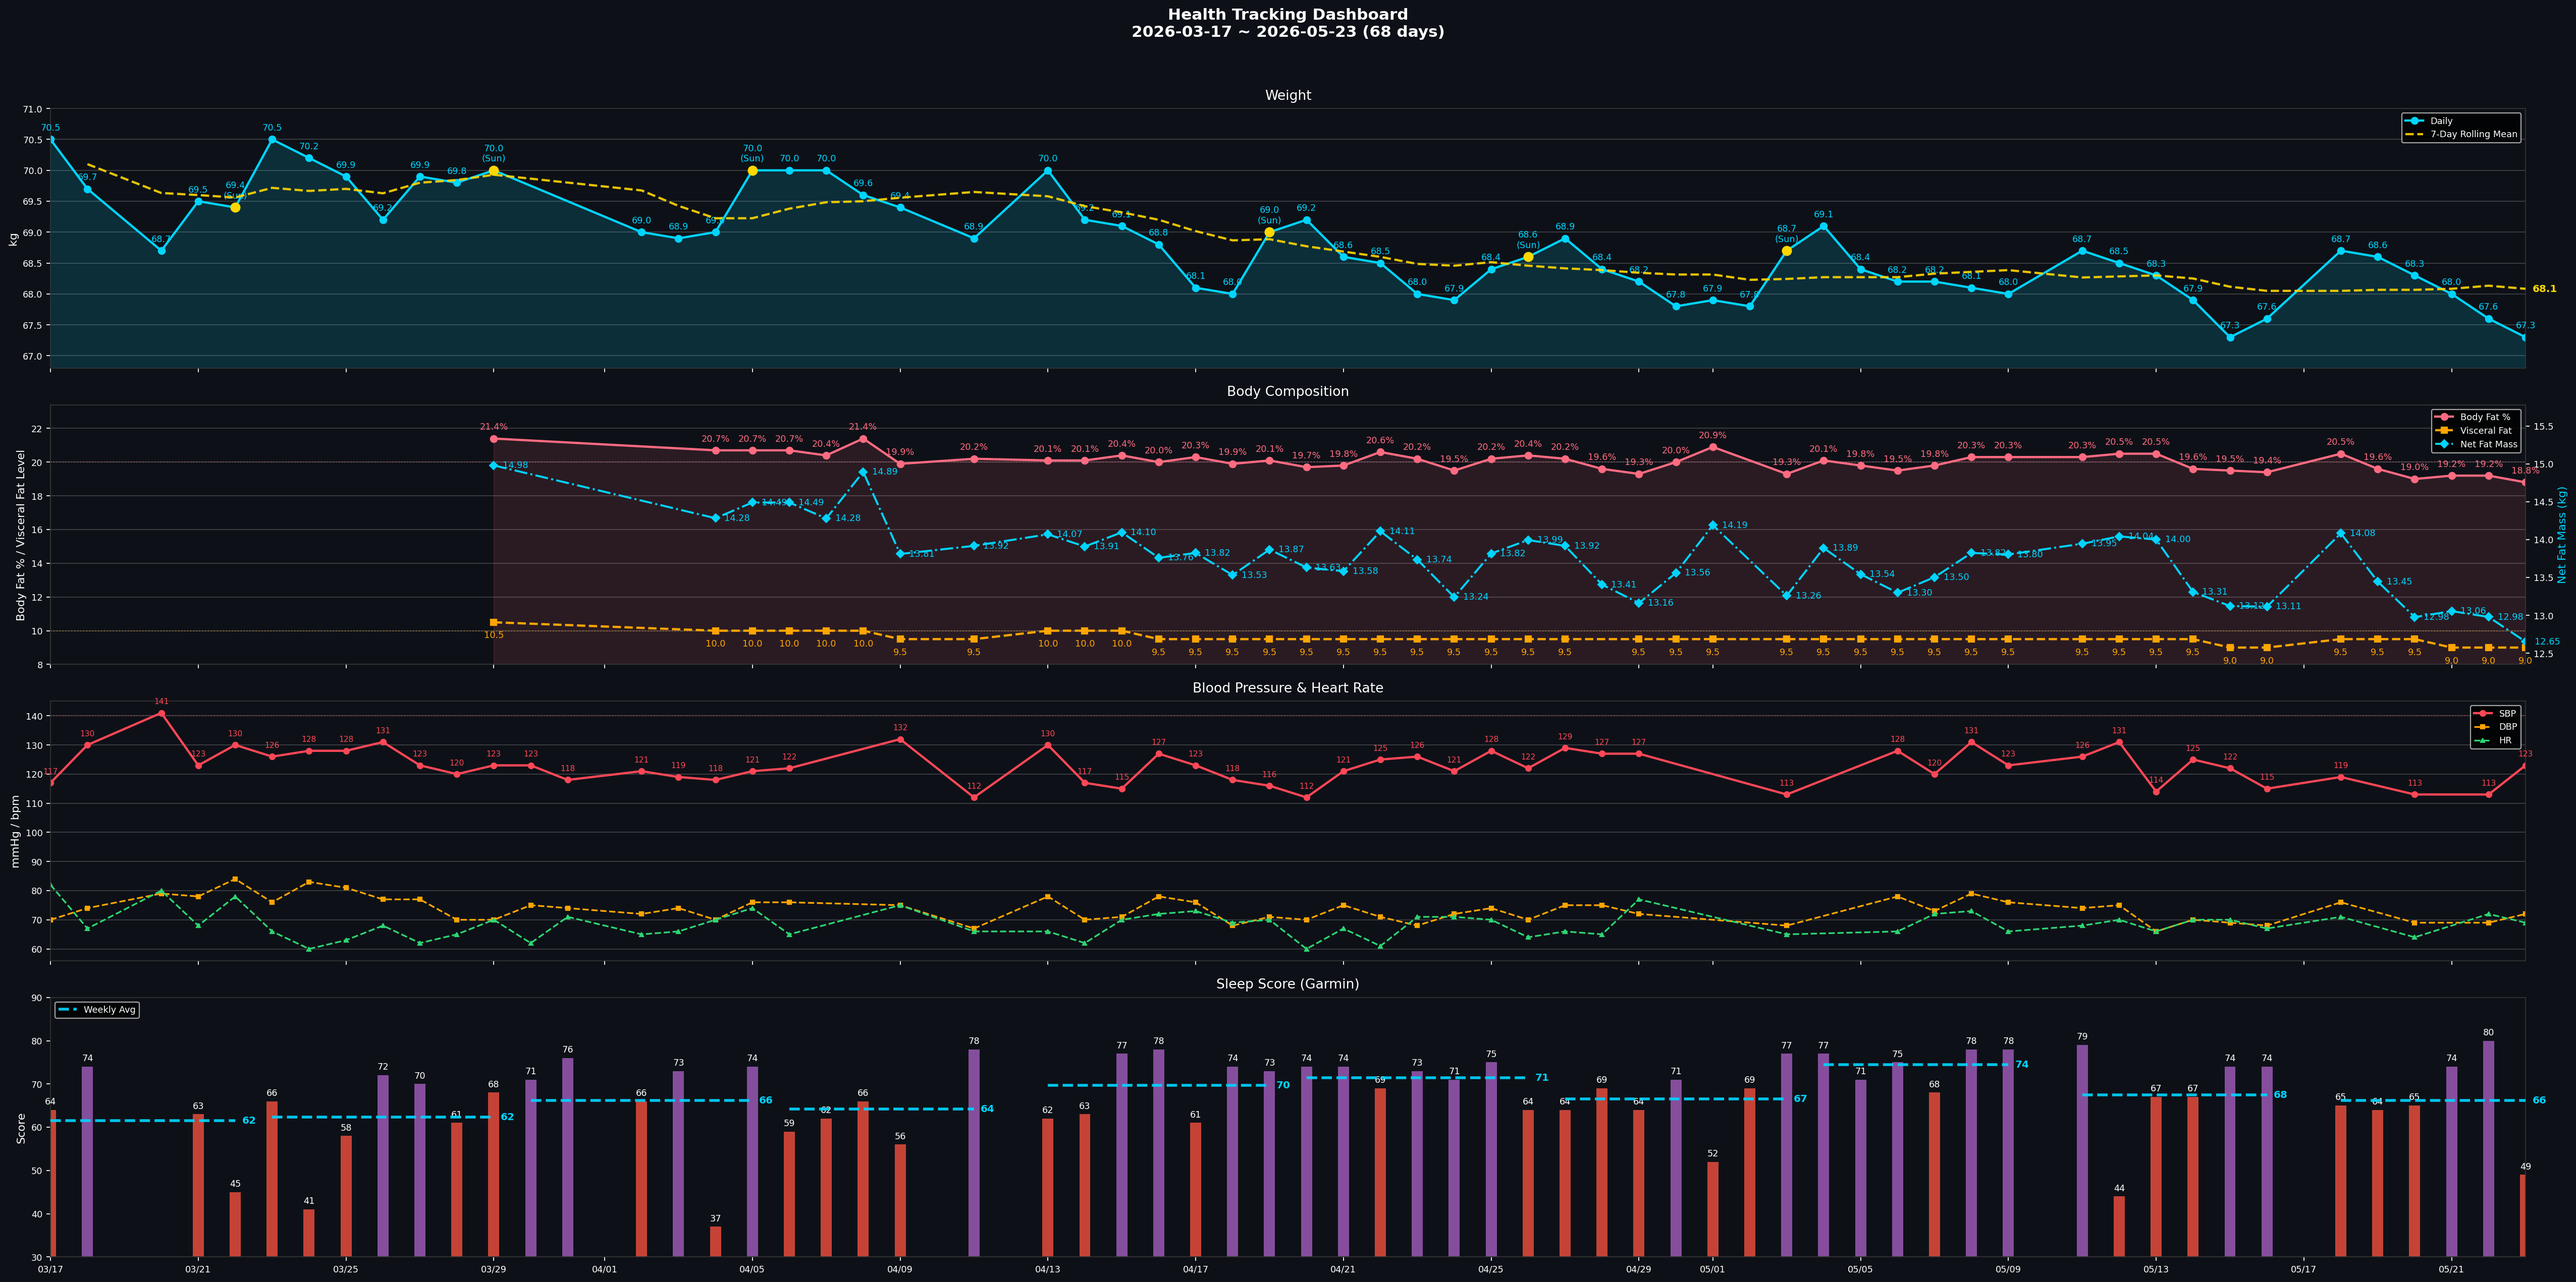
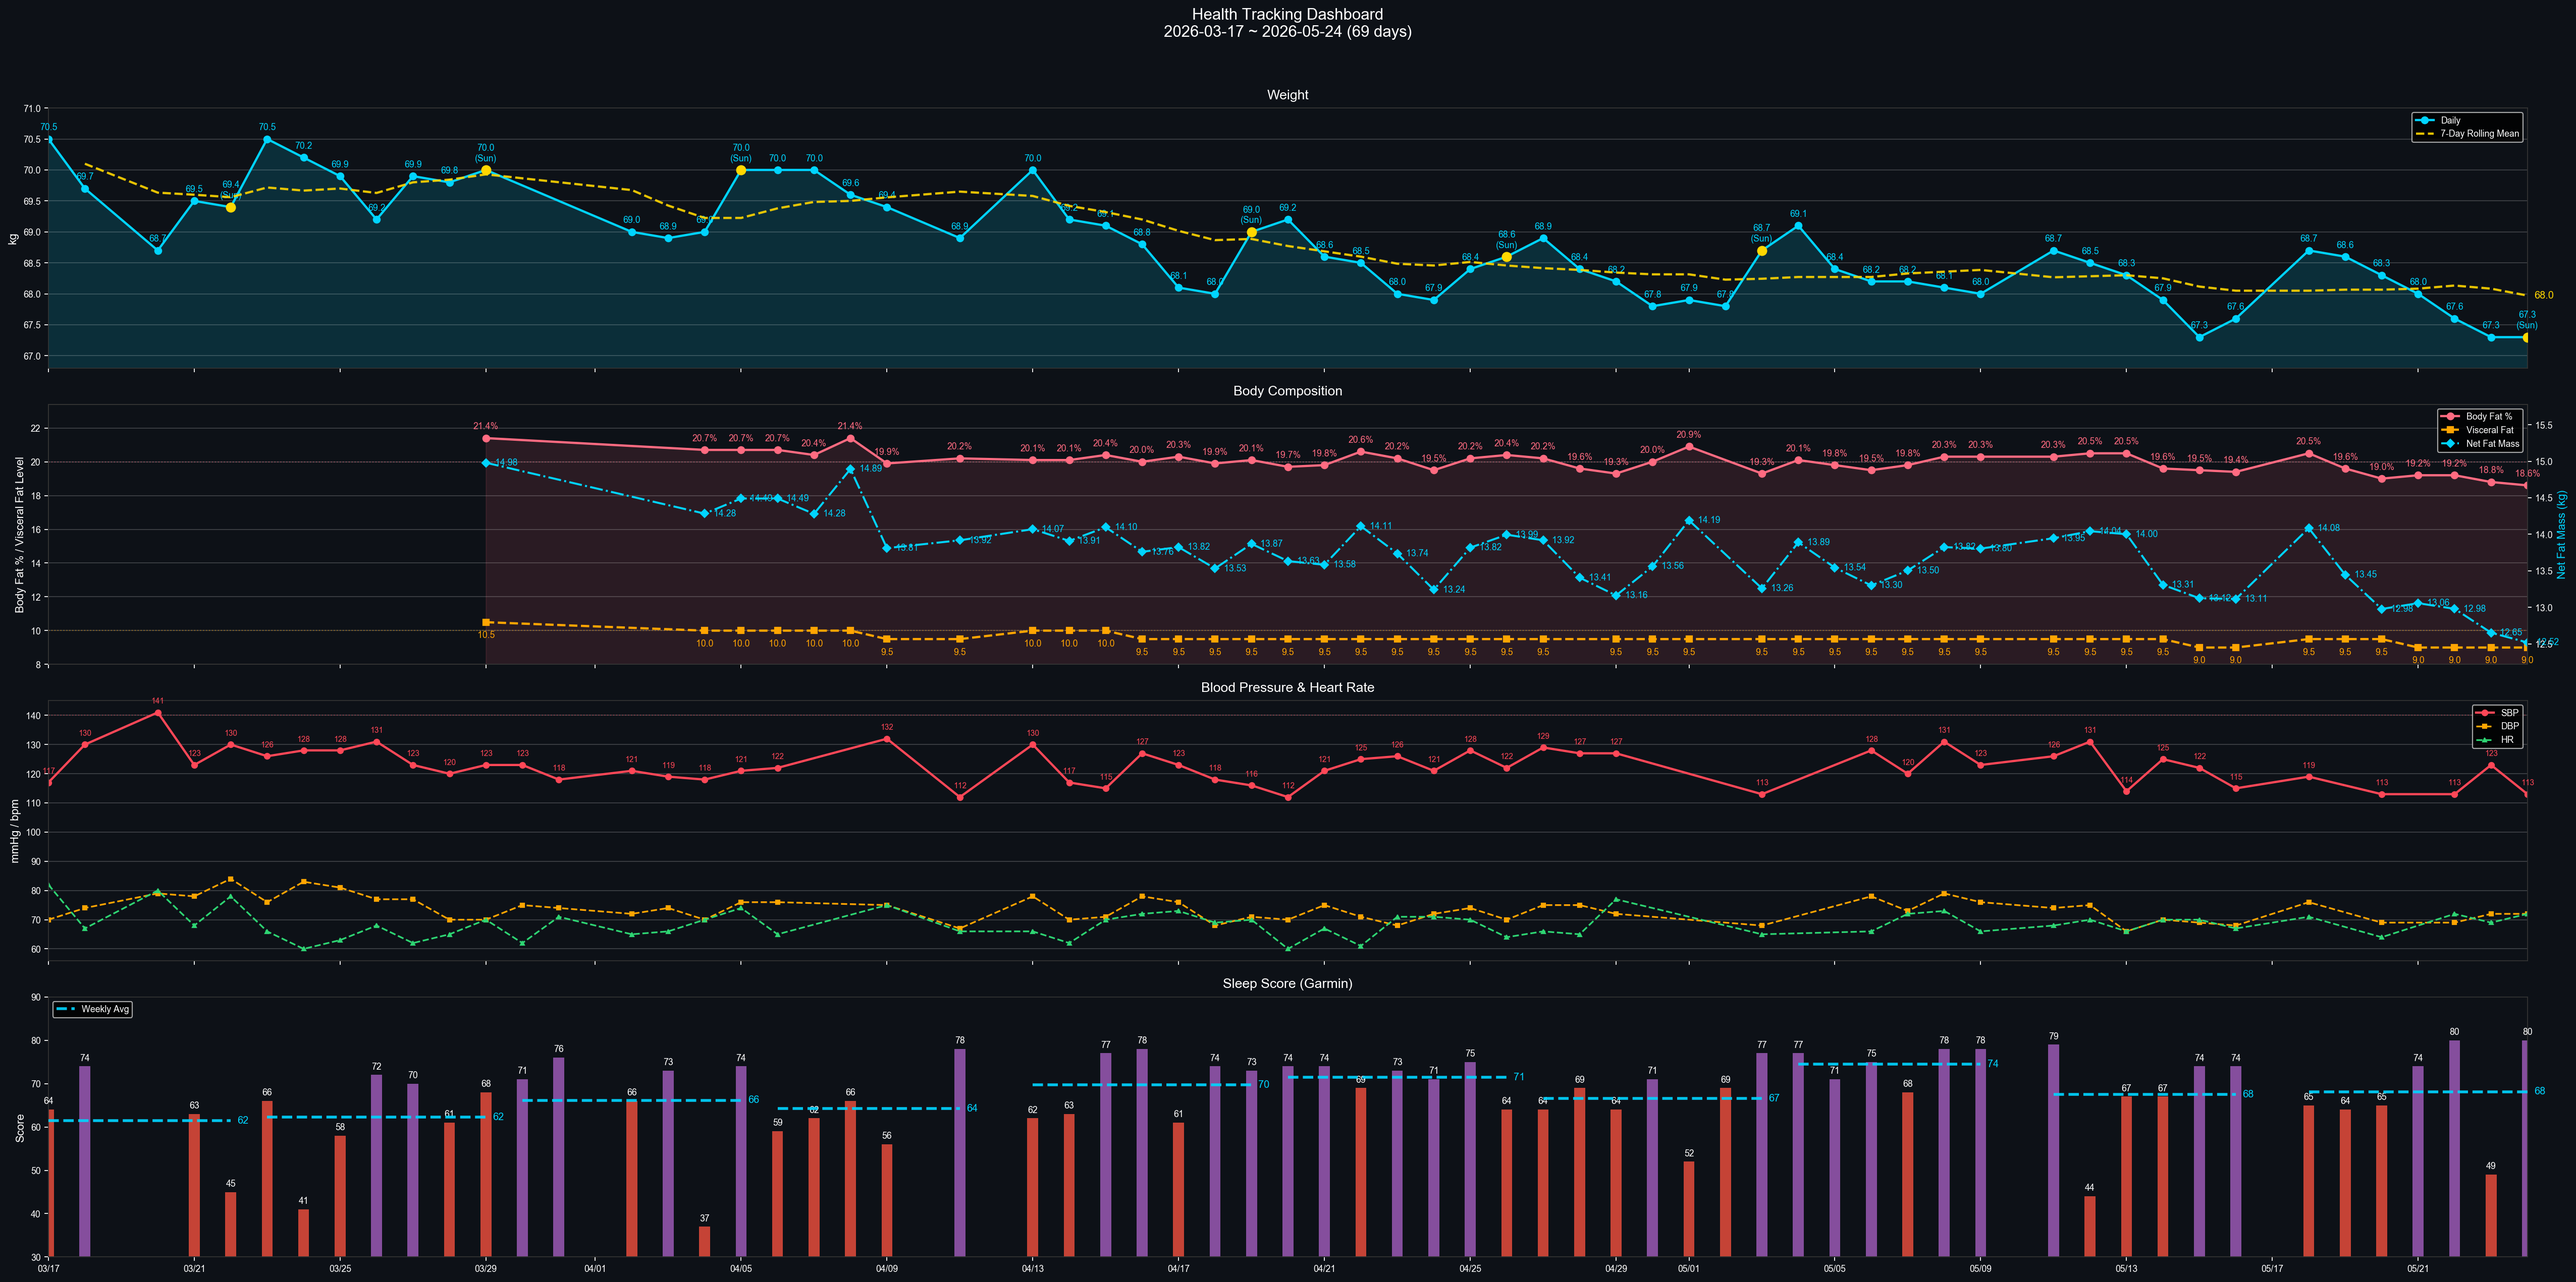
daily health log 2026-05-24

diff --git a/data.js b/data.js
@@ -14,8 +14,8 @@ window.HC_DATA = {
     lede:    { en: "Sleep, BP, lipids, uric acid — one shared metabolic root. Lifestyle stacks first; medication only after lifestyle plateaus.",
                zh: "睡眠、血壓、血脂、尿酸——共享同一個代謝根源。生活方式介入優先，等到效果平台期再考慮藥物。" },
     progressLbl: { en: "Weight progress · 70 → 65 (Cut, 6mo) → 63.1 kg (2015 align, 12mo)", zh: "體重進度 · 70 → 65（減脂期 6 個月）→ 63.1 公斤（對齊 2015，12 個月）" },
-    progressMeta: { en: "Day 68 · 67.3 kg · Sat official (5/23) · ahead of M3", zh: "第 68 天 · 67.3 公斤 · 週六正式（5/23）· 領先 M3 計畫" },
-    startDate: { en: "Start date · Mar 17, 2026 · Last sync 5/23 · 12-mo plan to 2027-03-17", zh: "起始日期 · 2026 年 3 月 17 日 · 最後同步 5/23 · 12 個月計畫至 2027-03-17" },
+    progressMeta: { en: "Day 69 · 67.3 kg · Sat official (5/23)", zh: "第 69 天 · 67.3 公斤 · 週六正式（5/23）" },
+    startDate: { en: "Start date · Mar 17, 2026 · Last sync 5/24", zh: "起始日期 · 2026 年 3 月 17 日 · 最後同步 5/24" },
     startWeight: 70,
     targetWeight: 63.1,
     cutPhaseTarget: 65,
@@ -46,14 +46,14 @@ window.HC_DATA = {
   markers: [
     {
       sys: "heart", name: { en: "Blood Pressure", zh: "血壓" },
-      val: "122/70", unit: "mmHg",
-      delta: { en: "W20 weekly avg (6 days) · target met (<130) · last 123/72 (5/23)", zh: "W20 週均（6 天）· 已達標 (<130) · 最新 123/72 (5/23)" },
+      val: "116/72", unit: "mmHg",
+      delta: { en: "W21 weekly avg (5 days) · target met (<130) · last 113/72 (5/24)", zh: "W21 週均（5 天）· 已達標 (<130) · 最新 113/72 (5/24)" },
       cadence: { en: "Daily · weekly avg", zh: "每日 · 週均" },
       status: "ok",
     },
     {
       sys: "sleep", name: { en: "Sleep Score", zh: "睡眠分數" },
-      val: "49", unit: "Garmin",
+      val: "80", unit: "Garmin",
       delta: { en: "5/4 · OSA flag: T90 18.4% (severe)", zh: "5/4 · OSA 紅旗：T90 18.4%（重度）" },
       cadence: { en: "Daily · Garmin", zh: "每日 · Garmin" },
       status: "warn",
@@ -948,14 +948,14 @@ window.HC_DATA = {
   tracker: {
     // [SBP, DBP] — gaps filled with prior reading
     bp: [
-      [131,79], [123,76], [126,74], [131,75], [114,66], [125,70], [122,69], [115,68], [119,76], [119,76], [113,69], [113,69], [113,69], [123,72],
+      [123,76], [126,74], [131,75], [114,66], [125,70], [122,69], [115,68], [119,76], [119,76], [113,69], [113,69], [113,69], [123,72], [113,72],
     ],
     // daily weight (kg)
-    weight: [68.1, 68, 68.7, 68.5, 68.3, 67.9, 67.3, 67.6, 68.7, 68.6, 68.3, 68, 67.6, 67.3],
+    weight: [68, 68.7, 68.5, 68.3, 67.9, 67.3, 67.6, 68.7, 68.6, 68.3, 68, 67.6, 67.3, 67.3],
     // Garmin Sleep Score
-    sleep:  [78, 78, 79, 44, 67, 67, 74, 74, 65, 64, 65, 74, 80, 49],
+    sleep:  [78, 79, 44, 67, 67, 74, 74, 65, 64, 65, 74, 80, 49, 80],
     // Body Battery waking
-    bb:     [37, 48, 55, 36, 42, 34, 51, 63, 48, 62, 54, 61, 56, 34],
+    bb:     [48, 55, 36, 42, 34, 51, 63, 48, 62, 54, 61, 56, 34, 59],
     // SpO2 nightly nadir % (last 14 days, parallel to bp/weight/sleep/bb).
     // Earlier nights null until sync_data_js.py backfills; banner only uses trailing values.
     spo2Nadir: [null, null, null, null, null, 84, 79, 87, 85, 84, 84, 86, 82, 84],

diff --git a/reviews/daily/2026-05-24.md b/reviews/daily/2026-05-24.md
@@ -1,0 +1,130 @@
+# 晨間健康紀錄 — 2026-05-24
+
+*3 分鐘。起床後立即完成。記錄，不分析。*
+
+---
+
+## 體重 / 體組成
+
+**今日：67.3 kg**
+**體脂率：18.6 %**
+**內臟脂肪等級：9**
+**腰圍 (WHO midpoint)：[ ] cm**（最下肋骨下緣 + 髂嵴頂端兩點水平中點環繞，通常在肚臍上方 2-5 cm；**與健檢歷史可比**；目標維持 ≤ 83、推進至 < 80 cm）
+**腰圍 (最大腹圍)：[ ] cm**（自然站立、吐氣末、不收腹，軟尺上下移動找最大讀數；通常在肚臍 0 至 -4 cm；**對內臟脂肪變化最敏感**）
+
+*每週六早晨為正式體重紀錄（排尿後、進食前；連 5 個工作日後、週末大餐前的真實低點）。其他日可選填。*
+*腰圍每日量（起床排尿後、進食前）。量兩個位置（WHO + max），方向應一致；若差距 > 3 cm 持續，考慮以 max 為主追蹤指標。*
+*WHO midpoint：科學標準，國健署 / 健檢 / metabolic syndrome 診斷用；最大腹圍：內臟脂肪 visceral fat correlation 最強。*
+
+---
+
+## 血壓（晨間）
+
+*起床後 1 小時內，上完廁所、進食前。坐下安靜 5 分鐘，連量兩次取第二次。*
+
+| 次數 | 收縮壓 | 舒張壓 | 心率 |
+|------|--------|--------|------|
+| 第一次 | — | — | — |
+| 第二次 | 113 | 72 | 72 |
+
+---
+
+## 睡眠狀態
+
+**Garmin 偵測入睡：** 20:35
+**實際上床：** 20:30–20:40（不確定）
+**實際起床：** 03:50
+**中途醒來：** 1 次（原因不明）
+**Garmin Sleep Score：** 80 / 100
+**Garmin Body Battery 起床值：** 59
+**主觀恢復感：** 3 / 5（1=極度疲憊, 5=精力充沛）
+**總睡眠時長：** 6h 48m（深眠 55 分｜REM 93 分）
+**入睡 latency：**（自動估算，範圍 LO–HI 分）
+
+### SpO2 Desat Events（2026-05-24 夜）
+
+睡眠平均 95.0%｜瞬間最低 **78%**｜T90 ≈ **10.9%**（SpO2 < 90% 累計 44 分）
+
+| 時段 | 長度 | 最低 | 平均 | 分級 |
+|---|---|---|---|---|
+| 23:40–00:10 | 31 分 | 81% | 86% | 🟠 中度（最長 event） |
+| 00:51–01:00 | 10 分 | **78%** | 82% | 🔴 重度（瞬間最低 < 80%） |
+| 02:19–02:21 | 3 分 | 86% | 87% | 🟡 紅旗 |
+
+**🔴 OSA 紅旗（連續第二晚觸發）：**
+- T90 10.9% > 10% ✅ 重度單晚 hypoxic burden
+- 最長 event 31 分鐘 > 15 分鐘 ✅ 重度累積缺氧
+- 瞬間最低 78% < 80% ✅ 重度單點 desat
+- 5/23：T90 32.1%、最長 32 分鐘、最低 79% — 連 2 晚同條件 → **PSG 進度追蹤升優先級**
+
+### SpO2 夜間最低（7 晚趨勢）
+
+| 日期 | -6 | -5 | -4 | -3 | -2 | -1 | 今晨 |
+|------|----|----|----|----|----|----|------|
+| 日期 | | | | | | | |
+| 最低 % | | | | | | | |
+
+**今晨日均 SpO2：** [ ]%
+**< 88% 連續晚數：** [ ]（OSA 紅旗門檻：連 3 晚 < 88% → 強烈建議 PSG）
+
+**SpO2 全夜圖（含 hypnogram 條帶）：** [ ]
+**SpO2 趨勢圖：** [ ]
+**SpO2 全夜 Heatmap（28+ 晚 Venu 4 cohort）：** [ ]
+**SpO2 × 睡眠分期 7 晚疊圖：** [ ]
+
+*Sleep Score < 65 或 Body Battery < 50 連續三天 → 重新檢視睡眠修復方案。*
+
+---
+
+## 昨日回顧
+
+**實際飲水量：** [ ] L（目標 ≥ 2.5L；高尿酸最佳 2.8–3.0L；17:00 前完成 60-70%）
+**昨日活動消耗：** [ ] kcal（主動 + BMR；自動讀自 Garmin daily summary 活動區塊）
+  - > 300 kcal → 今日可彈性增加 200-300 kcal 攝取
+  - < 100 kcal → 今日加強運動（補一段 Zone 2 走路 30 分）
+**昨日 Na / K / Na-K ratio：** [ ] mg / [ ] mg / [ ]（自動讀自 `scripts/analyze_nutrition.py --date YYYY-MM-DD`）
+  - Na/K < 0.5 ✅ / 0.5-0.6 🟢 / 0.6-0.8 🟡 / > 0.8 🟠（INTERSALT 1988）
+  - 連 3 天 ≥ 0.8 → 首選減鈉（自煮蛋取代茶葉蛋 −440 mg）或加 K（香蕉 +422 mg）
+
+---
+
+## 身體信號
+
+*任何張力、疼痛、疲勞、異常 — 或「清」。記位置、性質、強度。*
+
+| 部位 | 性質 | 強度 (0-10) |
+|------|------|-------------|
+| — | 清 | 0 |
+
+---
+
+## 今日計畫速記
+
+- [x] 飲水目標：**2.5 L**（建議 2.5–3.0L；錨點 09:30 ≥1.0L / 13:30 ≥2.0L / 17:00 截止 2.5L）
+- [x] 補充品（核心，2026-05-11 v2）— **照預設執行**：
+  - 早餐（06:00）：D3 2000 IU + **K2 MK-7 180 mcg** + **L-Citrulline 4 g** + 益生菌
+  - 午餐前 30 min：Psyllium 5 g + 350 mL 水
+  - 晚餐前 30 min：Psyllium 5 g + 350 mL 水
+  - 晚餐後：魚油 ×4（拆 18:30 ×2 + 19:30 ×2）
+  - 睡前（21:00）：鎂甘胺酸 400 mg + 酸櫻桃 1000-2000 mg + **Glycine 純粉 3 g**（起步 1.5 g × 3 晚）
+  - 茶飲：洛神花 ×2 杯（早 + 14:00 前）
+  - 食物層：南瓜籽 30 g（15:30）+ **菇蕈 100-130 g/天**（午 30-50 + 晚 50-80）
+  - ⏸ 待定：NAC 600 mg × 2（待 PSG 結果）
+- [ ] 運動（17:00 固定）：**Walk（Zone 1–2 步行，建議 30–45 分鐘）**
+- [ ] 活動度/伸展（09:30 + 20:30 兩次錨點）：**照預設執行**
+- [ ] Wind-down（20:00 燈光降 + 螢幕濾鏡，液體截止）
+- [ ] 上床 21:30 / 熄燈 22:00（TST 目標 7h+）
+
+---
+
+## 💡 PT 建議
+
+1. **OSA 紅旗連續第二晚觸發**（T90 10.9% + 最長 desat 31 min + 瞬間最低 78%）— 比 5/23 的災難級已有改善，但**連 2 晚同條件達標**，本週請優先把 PSG 預約日期落地；今晚續用楔形枕並側臥入睡，避免仰臥惡化舌根下沉。
+
+2. **體重 67.3 → 上週六 67.8 = –0.5 kg/週**屬於健康速率（cut 期上限 –0.6 kg/週），但**體脂率持平 18.6%** 意味掉的是水分/肝醣 + 部分肌肉。內臟脂肪 9（健康上限踩線）— 今日 walk 後若行有餘力可加一組「徒手深蹲 ×15 + 伏地挺身 ×8 + 棒式 30s」三循環，抓住 cut 期僅剩的肌肉保留窗口。
+
+3. **主觀恢復感 3/5 + 03:50 早醒 + Body Battery 起床 59** — 今日 walk 維持 Zone 1–2（RPE ≤ 4/10），不要拉強度；20:00 後啟動 wind-down 並把上床時間嚴格控在 21:30，目標把今晚總睡眠拉回 7h+ 修補昨晚短缺。
+
+---
+
+*Filed: reviews/daily/2026-05-24.md*

diff --git a/reviews/weekly/2026-W21.md b/reviews/weekly/2026-W21.md
@@ -31,9 +31,9 @@
 
 |  | 一 | 二 | 三 | 四 | 五 | 六 | 日 |
 |--|----|----|----|----|----|----|-----|
-| 體重 (kg) | 68.7 | 68.6 | 68.3 | 68.0 | 67.6 | 67.3 | |
-| 體脂率 (%) | 20.5 | 19.6 | 19.0 | 19.2 | 19.2 | 18.8 | |
-| 內臟脂肪 | 9.5 | 9.5 | 9.5 | 9.0 | 9.0 | 9.0 | |
+| 體重 (kg) | 68.7 | 68.6 | 68.3 | 68.0 | 67.6 | 67.3 | 67.3 |
+| 體脂率 (%) | 20.5 | 19.6 | 19.0 | 19.2 | 19.2 | 18.8 | 18.6 |
+| 內臟脂肪 | 9.5 | 9.5 | 9.5 | 9.0 | 9.0 | 9.0 | 9.0 |
 | **腰圍 WHO (cm)** | | | | | 83* | | |
 | **腰圍 max (cm)** | | | | | — | | |
 
@@ -57,7 +57,7 @@
 | 5/21 (四) | NA | NA | NA |
 | 5/22 (五) | 113 | 69 | 72 |
 | 5/23 (六) | 123 | 72 | 69 |
-| 5/24 (日) | | | |
+| 5/24 (日) | 113 | 72 | 72 |
 
 **本週平均：** _____ / _____ mmHg，心率 _____ bpm
 
@@ -75,7 +75,7 @@
 | 5/21 (四) | 21:22 | 04:07 | 無 | 74 | 61 | 2 |
 | 5/22 (五) | 21:41 | 05:08 | 1 (03:30) | 80 | 56 | 3 |
 | 5/23 (六) | 21:33 | 01:56 ⚠ | 多次 (網球翻身) | 49 🔴 | 34 🔴 | 2 |
-| 5/24 (日) | | | | | | |
+| 5/24 (日) | 20:30-40 | 03:50 | 1 (不明) | 80 | 59 | 3 |
 
 **Sleep Score 週均：** _____ / 100
 **Body Battery 週均：** _____
@@ -105,7 +105,7 @@
 
 | 信號（部位+性質） | 出現天數 | 平均強度 | 趨勢（↑↓→） | 備註 |
 |-------------------|----------|----------|-------------|------|
-| 清 | 6 | — | — | 05-18 / 05-19 / 05-20 / 05-21 / 05-22 / 05-23 |
+| 清 | 7 | — | — | 05-18 / 05-19 / 05-20 / 05-21 / 05-22 / 05-23 / 05-24 |
 
 **反覆出現（≥ 3 天）：** 無
 

diff --git a/reports/daily-garmin/2026-05-23.md b/reports/daily-garmin/2026-05-23.md
@@ -6,22 +6,29 @@
 - 深眠：84 分｜REM：0 分
 - Sleep Score：49
 - Body Battery 起床值：34
+- 估算上床：21:30｜入睡 latency：4 分
 
 ## 靜息心率
-- RHR：61.0 bpm
+- RHR：60.0 bpm
 
 ## 壓力
-- 日均：22
+- 日均：29
 
 ## 步數
-- 總計：55
+- 總計：6,676
 
 ## SpO2
-- 日均：94.0%
-- 最低：84%
+- 日均：93.0%
+- 最低：81%
+
+## 活動
+| 時段 | 類型 | 距離 | 時長 | 平均 HR | 最大 HR | 主動 kcal | 含 BMR |
+|------|------|------|------|---------|---------|-----------|--------|
+| 13:14 | walking | 0.60 km | 10.2 min | 106 | 124 | 51 | 64 |
 
 ## 飲水
-- 實際：— （Garmin Connect 未紀錄，請於 check-in 手動輸入）
+- 實際：0.25 L
 - 目標：2.00 L
+- 運動流汗耗水：0.14 L
 
 _Source: data/garmin/2026-05-23.json (gitignored)_

diff --git a/reports/daily-garmin/2026-05-24.md b/reports/daily-garmin/2026-05-24.md
@@ -1,0 +1,27 @@
+# Garmin 每日摘要 — 2026-05-24
+
+## 睡眠
+- 就寢：20:35｜起床：03:50
+- 總時長：6h 48m
+- 深眠：55 分｜REM：93 分
+- Sleep Score：80
+- Body Battery 起床值：59
+
+## 靜息心率
+- RHR：56.0 bpm
+
+## 壓力
+- 日均：20
+
+## 步數
+- 總計：94
+
+## SpO2
+- 日均：95.0%
+- 最低：78%
+
+## 飲水
+- 實際：— （Garmin Connect 未紀錄，請於 check-in 手動輸入）
+- 目標：2.00 L
+
+_Source: data/garmin/2026-05-24.json (gitignored)_
